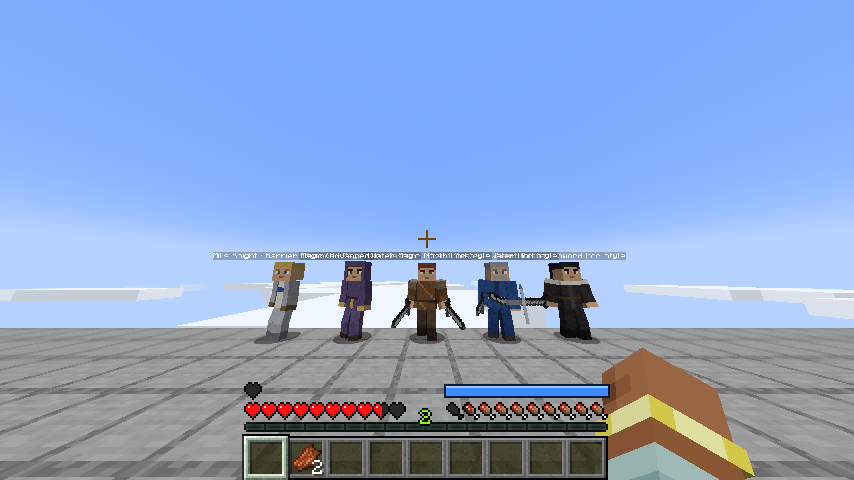
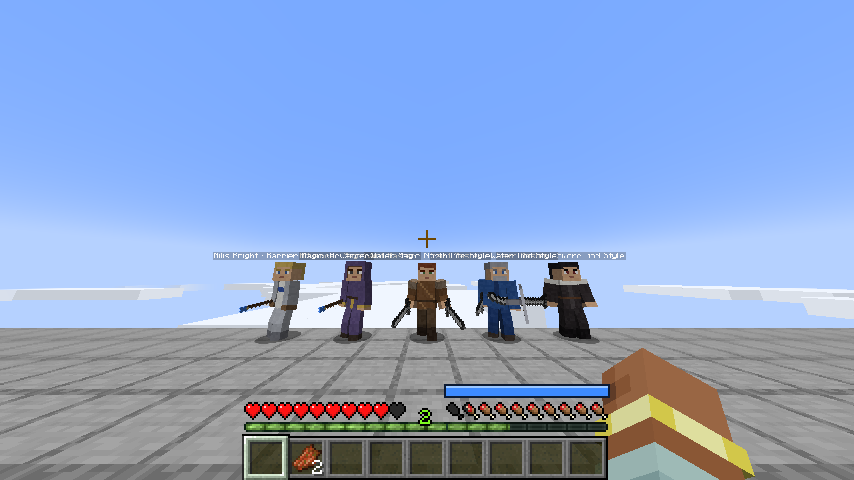
Add wands and staffs that strengthen and enlarge spells
Magic never needs a focus. A wand or staff held in either hand multiplies
spell power and, in the same proportion, projectile size and blast radius
(Apprentice's Wand +10%, Magician's Staff +20%, Aqua Heartia +40% water and
+15% elsewhere, after the wiki). Tutors carry one matching their rank.
Original textures, recipes, EN/FR names. The teacher spawn-rule test runs
in its own batch. 88 gametests passing; checked in the showcase.

diff --git a/src/gametest/java/fr/xopi/mushocraft/gametest/MagicFocusGameTests.java b/src/gametest/java/fr/xopi/mushocraft/gametest/MagicFocusGameTests.java
@@ -1,0 +1,94 @@
+package fr.xopi.mushocraft.gametest;
+
+import fr.xopi.mushocraft.MushoCraft;
+import fr.xopi.mushocraft.core.MushoEntities;
+import fr.xopi.mushocraft.core.MushoItems;
+import fr.xopi.mushocraft.core.Rank;
+import fr.xopi.mushocraft.magic.entity.SpellProjectile;
+import fr.xopi.mushocraft.magic.focus.MagicFocus;
+import fr.xopi.mushocraft.magic.spell.MushoSpells;
+import fr.xopi.mushocraft.magic.spell.Spell;
+import fr.xopi.mushocraft.magic.spell.SpellContext;
+import fr.xopi.mushocraft.magic.spell.SpellSchool;
+import fr.xopi.mushocraft.npc.MagicTutorEntity;
+import net.minecraft.core.BlockPos;
+import net.minecraft.gametest.framework.GameTest;
+import net.minecraft.gametest.framework.GameTestHelper;
+import net.minecraft.server.level.ServerPlayer;
+import net.minecraft.world.InteractionHand;
+import net.minecraft.world.item.ItemStack;
+import net.minecraft.world.phys.Vec3;
+import net.neoforged.neoforge.gametest.GameTestHolder;
+import net.neoforged.neoforge.gametest.PrefixGameTestTemplate;
+
+/**
+ * Wands and staffs: never needed to cast, they strengthen and enlarge spells.
+ */
+@GameTestHolder(MushoCraft.MODID)
+@PrefixGameTestTemplate(false)
+public final class MagicFocusGameTests {
+    private static final String EMPTY = "empty";
+
+    private MagicFocusGameTests() {
+    }
+
+    private static ServerPlayer caster(GameTestHelper helper) {
+        ServerPlayer player = TestPlayers.join(helper);
+        Vec3 spot = helper.absoluteVec(new Vec3(1.5, 1.0, 1.5));
+        player.moveTo(spot.x, spot.y, spot.z, 0.0F, 0.0F);
+        return player;
+    }
+
+    /** Casts a water ball as the player and returns the size of the ball that took shape. */
+    private static float waterBallSize(GameTestHelper helper, ServerPlayer player) {
+        Spell waterBall = MushoSpells.WATER_BALL.get();
+        waterBall.effect().cast(new SpellContext(player, waterBall, 1.0));
+        SpellProjectile ball = helper.getLevel().getEntitiesOfClass(SpellProjectile.class, player.getBoundingBox().inflate(4.0)).getFirst();
+        float size = ball.visualSize();
+        ball.discard();
+        return size;
+    }
+
+    @GameTest(template = EMPTY)
+    public static void magicNeedsNoWand(GameTestHelper helper) {
+        ServerPlayer player = caster(helper);
+        TestPlayers.expectClose(helper, MagicFocus.multiplier(player, SpellSchool.WATER), 1.0, "empty hands: plain power");
+        helper.assertTrue(waterBallSize(helper, player) > 0.0F, "and the spell still takes shape");
+        TestPlayers.leave(player);
+        helper.succeed();
+    }
+
+    @GameTest(template = EMPTY)
+    public static void aStaffMakesTheWaterBallStrongerAndBigger(GameTestHelper helper) {
+        ServerPlayer player = caster(helper);
+        float plain = waterBallSize(helper, player);
+        player.setItemInHand(InteractionHand.OFF_HAND, new ItemStack(MushoItems.MAGE_STAFF.get()));
+        TestPlayers.expectClose(helper, MagicFocus.multiplier(player, SpellSchool.WATER), 1.2, "a staff: +20%");
+        TestPlayers.expectClose(helper, waterBallSize(helper, player), plain * 1.2, "the water ball is 20% larger");
+        TestPlayers.leave(player);
+        helper.succeed();
+    }
+
+    @GameTest(template = EMPTY)
+    public static void aquaHeartiaFavoursWaterMagic(GameTestHelper helper) {
+        ServerPlayer player = caster(helper);
+        player.setItemInHand(InteractionHand.MAIN_HAND, new ItemStack(MushoItems.AQUA_HEARTIA.get()));
+        TestPlayers.expectClose(helper, MagicFocus.multiplier(player, SpellSchool.WATER), 1.4, "water above all");
+        TestPlayers.expectClose(helper, MagicFocus.multiplier(player, SpellSchool.FIRE), 1.15, "the other schools less");
+        player.setItemInHand(InteractionHand.OFF_HAND, new ItemStack(MushoItems.APPRENTICE_WAND.get()));
+        TestPlayers.expectClose(helper, MagicFocus.multiplier(player, SpellSchool.WATER), 1.4, "only the best focus counts");
+        TestPlayers.leave(player);
+        helper.succeed();
+    }
+
+    @GameTest(template = EMPTY)
+    public static void tutorsCarryAFocusMatchingTheirRank(GameTestHelper helper) {
+        MagicTutorEntity tutor = helper.spawn(MushoEntities.MAGIC_TUTOR.get(), new BlockPos(4, 1, 4));
+        tutor.setRank(Rank.INTERMEDIATE);
+        helper.assertTrue(tutor.getMainHandItem().is(MushoItems.APPRENTICE_WAND.get()), "an Intermediate holds a wand");
+        tutor.setRank(Rank.ADVANCED);
+        helper.assertTrue(tutor.getMainHandItem().is(MushoItems.MAGE_STAFF.get()), "an Advanced tutor holds a staff");
+        tutor.discard();
+        helper.succeed();
+    }
+}

diff --git a/src/main/java/fr/xopi/mushocraft/core/MushoItems.java b/src/main/java/fr/xopi/mushocraft/core/MushoItems.java
@@ -1,9 +1,11 @@
 package fr.xopi.mushocraft.core;
 
 import fr.xopi.mushocraft.MushoCraft;
+import fr.xopi.mushocraft.magic.focus.MagicFocusItem;
 import fr.xopi.mushocraft.magic.item.ConjuredSwordItem;
 import fr.xopi.mushocraft.magic.item.SpellBookItem;
 import fr.xopi.mushocraft.magic.spell.MushoSpells;
+import fr.xopi.mushocraft.magic.spell.SpellSchool;
 import net.minecraft.world.item.Item;
 import net.minecraft.world.item.Rarity;
 import net.minecraft.world.item.SwordItem;
@@ -14,6 +16,7 @@ import net.neoforged.neoforge.registries.DeferredItem;
 import net.neoforged.neoforge.registries.DeferredRegister;
 
 import java.util.List;
+import java.util.Map;
 
 /**
  * Items of the mod.
@@ -40,6 +43,23 @@ public final class MushoItems {
                     MushoSpells.HEALING.get(), MushoSpells.DETOXIFICATION.get())));
 
     /** Beginner barrier and divine strike: the only rank of these schools Milis allows to be taught. */
+    // ---- Wands and staffs (wiki, page Magic Tools and Magic Items): never required, they strengthen spells ----
+
+    /** A plain wooden wand with a small magic stone. */
+    public static final DeferredItem<MagicFocusItem> APPRENTICE_WAND = ITEMS.register("apprentice_wand",
+            () -> new MagicFocusItem(new Item.Properties(), 0.10, Map.of()));
+
+    /** A magician's staff of good wood, crowned with a larger magic stone. */
+    public static final DeferredItem<MagicFocusItem> MAGE_STAFF = ITEMS.register("mage_staff",
+            () -> new MagicFocusItem(new Item.Properties().rarity(Rarity.UNCOMMON), 0.20, Map.of()));
+
+    /**
+     * Aqua Heartia, the A-rank staff made for Rudeus: Elder Treant wood and a dragon's magic stone; it greatly improves
+     * water magic and, to a lesser extent, earth, wind and fire (wiki). Unique: not craftable.
+     */
+    public static final DeferredItem<MagicFocusItem> AQUA_HEARTIA = ITEMS.register("aqua_heartia",
+            () -> new MagicFocusItem(new Item.Properties().rarity(Rarity.EPIC), 0.15, Map.of(SpellSchool.WATER, 0.25)));
+
     public static final DeferredItem<SpellBookItem> MILIS_PRAYER_BOOK = ITEMS.register("milis_prayer_book",
             () -> new SpellBookItem(new Item.Properties().stacksTo(1).rarity(Rarity.UNCOMMON), () -> List.of(
                     MushoSpells.MAGIC_SHIELD.get(), MushoSpells.EXORCIST_LIGHT.get())));

diff --git a/src/main/java/fr/xopi/mushocraft/magic/focus/MagicFocusItem.java b/src/main/java/fr/xopi/mushocraft/magic/focus/MagicFocusItem.java
@@ -1,0 +1,51 @@
+package fr.xopi.mushocraft.magic.focus;
+
+import fr.xopi.mushocraft.magic.spell.SpellSchool;
+import net.minecraft.ChatFormatting;
+import net.minecraft.network.chat.Component;
+import net.minecraft.world.item.Item;
+import net.minecraft.world.item.ItemStack;
+import net.minecraft.world.item.TooltipFlag;
+
+import java.util.EnumMap;
+import java.util.List;
+import java.util.Locale;
+import java.util.Map;
+
+/**
+ * A wand or a staff (wiki, page <i>Magic Tools and Magic Items</i>): it channels mana and makes magic more efficient,
+ * its quality set by its wood and its magic stone. Magic never needs one; held in either hand, it raises the power of
+ * spells by a share, and some favour particular schools (Aqua Heartia: water above all).
+ */
+public class MagicFocusItem extends Item {
+    private final double bonus;
+    private final Map<SpellSchool, Double> affinities;
+
+    /**
+     * @param bonus      extra power for every school (0.2 = +20%)
+     * @param affinities extra power for some schools, on top of the general bonus
+     */
+    public MagicFocusItem(Properties properties, double bonus, Map<SpellSchool, Double> affinities) {
+        super(properties.stacksTo(1));
+        this.bonus = bonus;
+        this.affinities = affinities.isEmpty() ? Map.of() : new EnumMap<>(affinities);
+    }
+
+    /** Extra power given to a spell of this school (0.2 = +20%). */
+    public double bonus(SpellSchool school) {
+        return bonus + affinities.getOrDefault(school, 0.0);
+    }
+
+    @Override
+    public void appendHoverText(ItemStack stack, TooltipContext context, List<Component> tooltip, TooltipFlag flag) {
+        if (bonus > 0.0) {
+            tooltip.add(Component.translatable("item.mushocraft.magic_focus.bonus", percent(bonus)).withStyle(ChatFormatting.BLUE));
+        }
+        affinities.forEach((school, extra) -> tooltip.add(Component.translatable("item.mushocraft.magic_focus.affinity",
+                percent(bonus + extra), school.displayName()).withStyle(ChatFormatting.BLUE)));
+    }
+
+    private static String percent(double share) {
+        return String.format(Locale.ROOT, "%.0f", share * 100.0);
+    }
+}

diff --git a/src/main/java/fr/xopi/mushocraft/npc/MagicTutorEntity.java b/src/main/java/fr/xopi/mushocraft/npc/MagicTutorEntity.java
@@ -1,6 +1,7 @@
 package fr.xopi.mushocraft.npc;
 
 import fr.xopi.mushocraft.combat.move.MoveRef;
+import fr.xopi.mushocraft.core.MushoItems;
 import fr.xopi.mushocraft.core.MushoRegistries;
 import fr.xopi.mushocraft.core.Rank;
 import fr.xopi.mushocraft.magic.ai.SpellcasterGoal;
@@ -19,11 +20,13 @@ import net.minecraft.server.level.ServerPlayer;
 import net.minecraft.util.RandomSource;
 import net.minecraft.world.DifficultyInstance;
 import net.minecraft.world.entity.EntityType;
+import net.minecraft.world.entity.EquipmentSlot;
 import net.minecraft.world.entity.MobSpawnType;
 import net.minecraft.world.entity.PathfinderMob;
 import net.minecraft.world.entity.SpawnGroupData;
 import net.minecraft.world.entity.ai.attributes.AttributeSupplier;
 import net.minecraft.world.entity.ai.attributes.Attributes;
+import net.minecraft.world.item.ItemStack;
 import net.minecraft.world.level.Level;
 import net.minecraft.world.level.ServerLevelAccessor;
 
@@ -65,6 +68,15 @@ public class MagicTutorEntity extends TeacherEntity {
     public void setSchool(SpellSchool school) {
         entityData.set(SCHOOL, school.ordinal());
         refreshName();
+    }
+
+    @Override
+    public void setRank(Rank rank) {
+        super.setRank(rank);
+        // A tutor's staff grows with their rank: a wand for an Intermediate, a staff above.
+        setItemSlot(EquipmentSlot.MAINHAND, new ItemStack(rank.isAtLeast(Rank.ADVANCED) ? MushoItems.MAGE_STAFF.get()
+                : MushoItems.APPRENTICE_WAND.get()));
+        setDropChance(EquipmentSlot.MAINHAND, 0.0F);
     }
 
     /** Holy Knights of Milis guard barrier and divine strike magic. */

diff --git a/src/main/java/fr/xopi/mushocraft/magic/ai/SpellcasterGoal.java b/src/main/java/fr/xopi/mushocraft/magic/ai/SpellcasterGoal.java
@@ -1,5 +1,6 @@
 package fr.xopi.mushocraft.magic.ai;
 
+import fr.xopi.mushocraft.magic.focus.MagicFocus;
 import fr.xopi.mushocraft.magic.spell.Spell;
 import fr.xopi.mushocraft.magic.spell.SpellContext;
 import fr.xopi.mushocraft.magic.spell.SpellIntent;
@@ -112,11 +113,12 @@ public class SpellcasterGoal extends Goal {
 
     private void release(LivingEntity target) {
         Spell spell = chanting;
+        double strength = power.applyAsDouble(spell) * MagicFocus.multiplier(caster, spell.school());
         SpellContext context = switch (spell.intent()) {
-            case ATTACK -> target == null ? null : SpellContext.aimedAt(caster, spell, power.applyAsDouble(spell), target.getEyePosition());
+            case ATTACK -> target == null ? null : SpellContext.aimedAt(caster, spell, strength, target.getEyePosition());
             // Healing and barriers are aimed at the caster itself: looking straight up, no one else is in reach.
-            case SUPPORT -> new SpellContext(caster, spell, power.applyAsDouble(spell), new Vec3(0.0, 1.0, 0.0));
-            case DEFEND, UTILITY -> new SpellContext(caster, spell, power.applyAsDouble(spell));
+            case SUPPORT -> new SpellContext(caster, spell, strength, new Vec3(0.0, 1.0, 0.0));
+            case DEFEND, UTILITY -> new SpellContext(caster, spell, strength);
         };
         if (context != null && spell.effect().cast(context)) {
             readyAt.put(spell, now() + spell.cooldownTicks());

diff --git a/src/main/java/fr/xopi/mushocraft/magic/spell/SpellCasting.java b/src/main/java/fr/xopi/mushocraft/magic/spell/SpellCasting.java
@@ -4,6 +4,7 @@ import fr.xopi.mushocraft.MushoCraft;
 import fr.xopi.mushocraft.combat.mastery.MasteryService;
 import fr.xopi.mushocraft.combat.move.CooldownService;
 import fr.xopi.mushocraft.combat.move.MoveUseResult;
+import fr.xopi.mushocraft.magic.focus.MagicFocus;
 import fr.xopi.mushocraft.magic.mana.ManaService;
 import net.minecraft.core.particles.ParticleTypes;
 import net.minecraft.network.chat.Component;
@@ -107,7 +108,8 @@ public final class SpellCasting {
             return MoveUseResult.fail("message.mushocraft.move.botched", spell.displayName(),
                     MasteryService.progressText(caster, spell.ref()));
         }
-        double power = MagicService.proficiency(caster).power(spell) * MasteryService.powerFactor(caster, spell.ref());
+        double power = MagicService.proficiency(caster).power(spell) * MasteryService.powerFactor(caster, spell.ref())
+                * MagicFocus.multiplier(caster, spell.school());
         if (!spell.effect().cast(new SpellContext(caster, spell, power))) {
             ManaService.restore(caster, spell.manaCost());
             return MoveUseResult.fail("message.mushocraft.magic.fizzled", spell.displayName());

diff --git a/src/gametest/java/fr/xopi/mushocraft/gametest/showcase/ShowcaseDirector.java b/src/gametest/java/fr/xopi/mushocraft/gametest/showcase/ShowcaseDirector.java
@@ -7,6 +7,7 @@ import fr.xopi.mushocraft.combat.move.CooldownService;
 import fr.xopi.mushocraft.combat.move.MoveRef;
 import fr.xopi.mushocraft.combat.move.MoveService;
 import fr.xopi.mushocraft.core.MushoEntities;
+import fr.xopi.mushocraft.core.MushoItems;
 import fr.xopi.mushocraft.core.Rank;
 import fr.xopi.mushocraft.life.LifeService;
 import fr.xopi.mushocraft.magic.entity.SpellProjectile;
@@ -191,6 +192,7 @@ public final class ShowcaseDirector {
                 Minecraft.getInstance().options.setCameraType(CameraType.THIRD_PERSON_BACK);
                 onServer(player -> {
                     player.getInventory().clearContent();
+                    player.setItemInHand(InteractionHand.OFF_HAND, new ItemStack(MushoItems.AQUA_HEARTIA.get()));
                     player.setXRot(0.0F);
                     List.of(MushoSpells.BLIZZARD_STORM, MushoSpells.EARTH_HEDGEHOG, MushoSpells.EARTH_FORTRESS)
                             .forEach(spell -> MagicService.learn(player, spell.get()));

diff --git a/src/main/java/fr/xopi/mushocraft/magic/spell/effect/ProjectileEffect.java b/src/main/java/fr/xopi/mushocraft/magic/spell/effect/ProjectileEffect.java
@@ -23,8 +23,9 @@ public final class ProjectileEffect implements SpellEffect {
     public boolean cast(SpellContext context) {
         Vec3 look = context.look();
         // Big masses (Ex-Flame) take shape further ahead, so they do not swallow the caster's view.
-        Vec3 start = context.eyes().add(look.scale(0.6 + profile.size() * 0.6)).subtract(0.0, 0.2, 0.0);
-        SpellProjectile projectile = SpellProjectile.create(context.level(), context.caster(), profile.scaled(context.power()));
+        ProjectileProfile shaped = profile.scaled(context.power()).enlarged(context.scale());
+        Vec3 start = context.eyes().add(look.scale(0.6 + shaped.size() * 0.6)).subtract(0.0, 0.2, 0.0);
+        SpellProjectile projectile = SpellProjectile.create(context.level(), context.caster(), shaped);
         projectile.setPos(start);
         projectile.shoot(look.x, look.y, look.z, profile.speed(), 0.5F);
         context.level().addFreshEntity(projectile);

diff --git a/src/main/java/fr/xopi/mushocraft/magic/focus/MagicFocus.java b/src/main/java/fr/xopi/mushocraft/magic/focus/MagicFocus.java
@@ -1,0 +1,24 @@
+package fr.xopi.mushocraft.magic.focus;
+
+import fr.xopi.mushocraft.magic.spell.SpellSchool;
+import net.minecraft.world.InteractionHand;
+import net.minecraft.world.entity.LivingEntity;
+
+/**
+ * The wand or staff a caster holds, if any: the best one in either hand counts.
+ */
+public final class MagicFocus {
+    private MagicFocus() {
+    }
+
+    /** Multiplier on the power, and on the size, of a spell of this school: 1.0 with empty hands. */
+    public static double multiplier(LivingEntity caster, SpellSchool school) {
+        double best = 0.0;
+        for (InteractionHand hand : InteractionHand.values()) {
+            if (caster.getItemInHand(hand).getItem() instanceof MagicFocusItem focus) {
+                best = Math.max(best, focus.bonus(school));
+            }
+        }
+        return 1.0 + best;
+    }
+}

diff --git a/src/main/java/fr/xopi/mushocraft/magic/spell/SpellContext.java b/src/main/java/fr/xopi/mushocraft/magic/spell/SpellContext.java
@@ -1,5 +1,6 @@
 package fr.xopi.mushocraft.magic.spell;
 
+import fr.xopi.mushocraft.magic.focus.MagicFocus;
 import net.minecraft.server.level.ServerLevel;
 import net.minecraft.world.entity.LivingEntity;
 import net.minecraft.world.phys.Vec3;
@@ -28,6 +29,14 @@ public record SpellContext(LivingEntity caster, Spell spell, double power, Vec3 
 
     public Vec3 eyes() {
         return caster.getEyePosition();
+    }
+
+    /**
+     * How much bigger the spell takes shape: a wand or staff in hand enlarges it as much as it strengthens it
+     * (a water ball 20% stronger is 20% larger). Without one, 1.0.
+     */
+    public double scale() {
+        return MagicFocus.multiplier(caster, spell.school());
     }
 
     public long gameTime() {

diff --git a/src/main/java/fr/xopi/mushocraft/core/MushoCreativeTabs.java b/src/main/java/fr/xopi/mushocraft/core/MushoCreativeTabs.java
@@ -24,6 +24,9 @@ public final class MushoCreativeTabs {
                         output.accept(MushoItems.MILIS_PRAYER_BOOK.get());
                         output.accept(MushoItems.INTERMEDIATE_ATTACK_TREATISE.get());
                         output.accept(MushoItems.INTERMEDIATE_HEALING_TREATISE.get());
+                        output.accept(MushoItems.APPRENTICE_WAND.get());
+                        output.accept(MushoItems.MAGE_STAFF.get());
+                        output.accept(MushoItems.AQUA_HEARTIA.get());
                         output.accept(MushoItems.SWORD_MASTER_SPAWN_EGG.get());
                         output.accept(MushoItems.MAGIC_TUTOR_SPAWN_EGG.get());
                     })

diff --git a/src/main/java/fr/xopi/mushocraft/magic/spell/effect/FallingProjectileEffect.java b/src/main/java/fr/xopi/mushocraft/magic/spell/effect/FallingProjectileEffect.java
@@ -26,7 +26,7 @@ public final class FallingProjectileEffect implements SpellEffect {
     @Override
     public boolean cast(SpellContext context) {
         Vec3 target = SpellTargeting.aimedPoint(context, range);
-        SpellProjectile boulder = SpellProjectile.create(context.level(), context.caster(), profile.scaled(context.power()));
+        SpellProjectile boulder = SpellProjectile.create(context.level(), context.caster(), profile.scaled(context.power()).enlarged(context.scale()));
         boulder.setPos(target.x, target.y + height, target.z);
         boulder.setDeltaMovement(0.0, -profile.speed(), 0.0);
         context.level().addFreshEntity(boulder);
